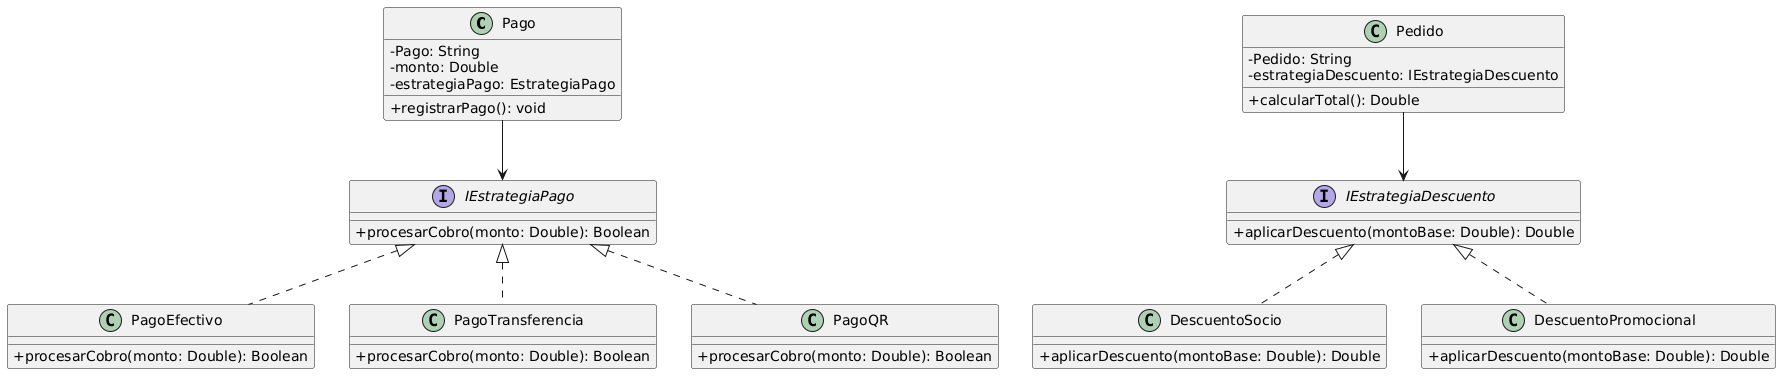
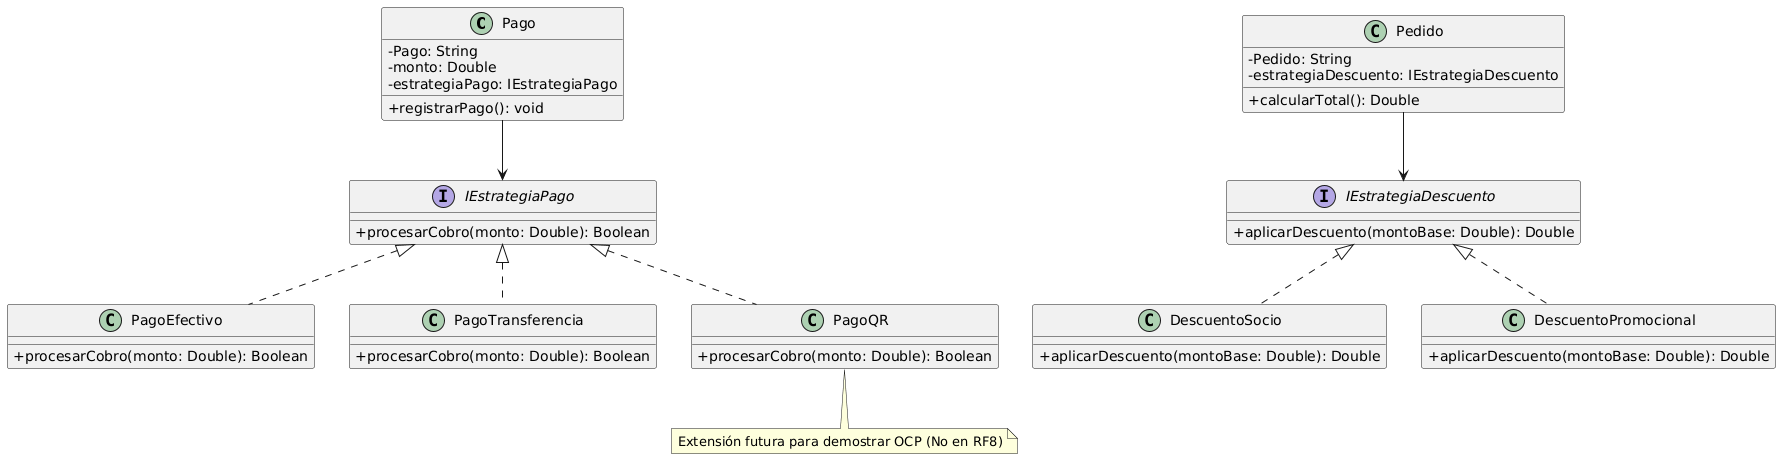
Realizo nuevas correcciones asignadas por el profesor

Changed region(s): [[0.0, 0.3743, 1.0, 0.9791], [0.6764, 0.0288, 0.8916, 0.288], [0.2152, 0.0, 0.3689, 0.3168]]

diff --git a/changelog.md b/changelog.md
@@ -23,15 +23,15 @@ Este archivo se actualiza con cada Pull Request para registrar avances y correcc
   issue: [#123](https://github.com/eloeyhe/SistemaPedidos/issues/123)
   issue: [#124](https://github.com/eloeyhe/SistemaPedidos/issues/124)
   issue: [#125](https://github.com/eloeyhe/SistemaPedidos/issues/125)
-  PR: [#126](https://github.com/eloeyhe/SistemaPedidos/pull/133) - @eloeyhe (Especialista en Principios de Extension(OCP + LSP))
+  PR: [#133](https://github.com/eloeyhe/SistemaPedidos/pull/133) - @eloeyhe (Especialista en Principios de Extension(OCP + LSP))
 
 - [feature/esp-srp-add-anexo-srp] agrego 02-srp.md, .png, .puml, y especialista-srp.md
-  Issue: [#128](https://github.com/eloeyhe/SistemaPedidos/issues/128)
-  Issue: [#129](https://github.com/eloeyhe/SistemaPedidos/issues/129)
-  issue: [#130](https://github.com/eloeyhe/SistemaPedidos/issues/130)
-  issue: [#131](https://github.com/eloeyhe/SistemaPedidos/issues/131)
-  issue: [#132](https://github.com/eloeyhe/SistemaPedidos/issues/132)
-  PR: [#133](https://github.com/eloeyhe/SistemaPedidos/pull/126) - @eloeyhe (Especialista en Principios de Extension(OCP + LSP))
+  Issue: [#120](https://github.com/eloeyhe/SistemaPedidos/issues/120)
+  Issue: [#121](https://github.com/eloeyhe/SistemaPedidos/issues/121)
+  issue: [#122](https://github.com/eloeyhe/SistemaPedidos/issues/122)
+  issue: [#123](https://github.com/eloeyhe/SistemaPedidos/issues/123)
+  issue: [#124](https://github.com/eloeyhe/SistemaPedidos/issues/124)
+  PR: [#126](https://github.com/eloeyhe/SistemaPedidos/pull/126) - @nachovelesquen7-rgb (Documentador y Coordinador de Repositorio + srp)
 
 
 - [feature/esp-extension-lsp-add-anexo-lsp] Creo las carpetas y archivos con datos correspondientes a LSP
@@ -73,7 +73,7 @@ Este archivo se actualiza con cada Pull Request para registrar avances y correcc
 
 ### Fixed
 
-- [fix/correccion-de-relaciones-de-diagramas-OCP-LSP] Corrijo link y arreglo diagramas PUML (OCP+LSP)
+- [fix/correccion-de-relaciones-de-diagramas-OCP-LSP] Realizo RC2, RC3, RC4, RC5 y RC6 en cuanto a OCP y LSP
  Issue: [#131](https://github.com/eloeyhe/SistemaPedidos/issues/131)
  Issue: [#139](https://github.com/eloeyhe/SistemaPedidos/issues/139)
   PR: [#155](https://github.com/eloeyhe/SistemaPedidos/pull/155) - @eloeyhe (Especialista en Principios de Extensión (OCP + LSP))
@@ -91,6 +91,7 @@ Este archivo se actualiza con cada Pull Request para registrar avances y correcc
   PR: [#159](https://github.com/eloeyhe/SistemaPedidos/pull/159) - @nachovelesquen7-rgb (Documentador y Coordinador de Repositorio + srp)
 
 - [fix/correccion-de-relaciones-de-diagramas-OCP-LSP] Corrijo nomenclatura de Estrategia.. por IEstrategia..
+
  Issue: [#139](https://github.com/eloeyhe/SistemaPedidos/issues/139)
   PR: [#160](https://github.com/eloeyhe/SistemaPedidos/pull/160) - @eloeyhe (Especialista en Principios de Extensión (OCP + LSP))
 
